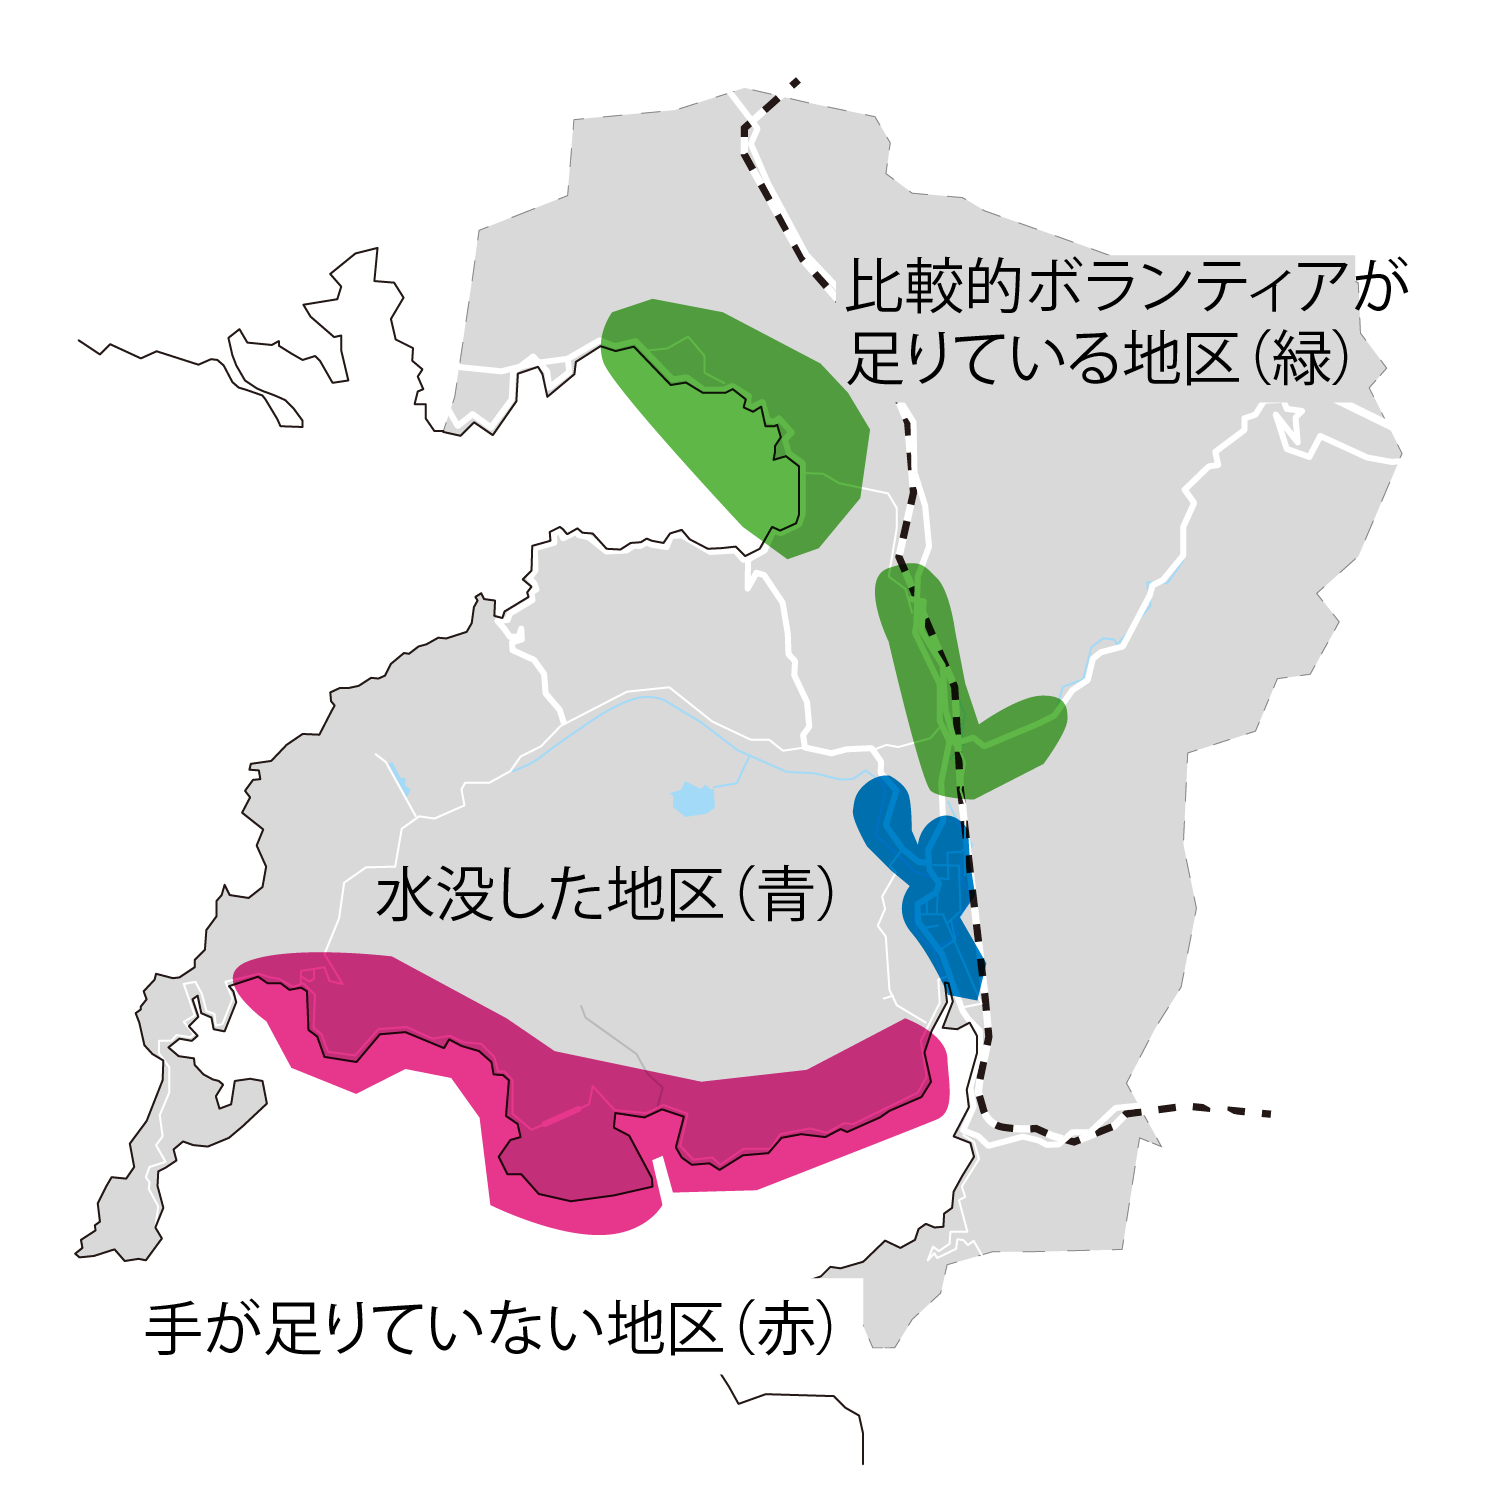
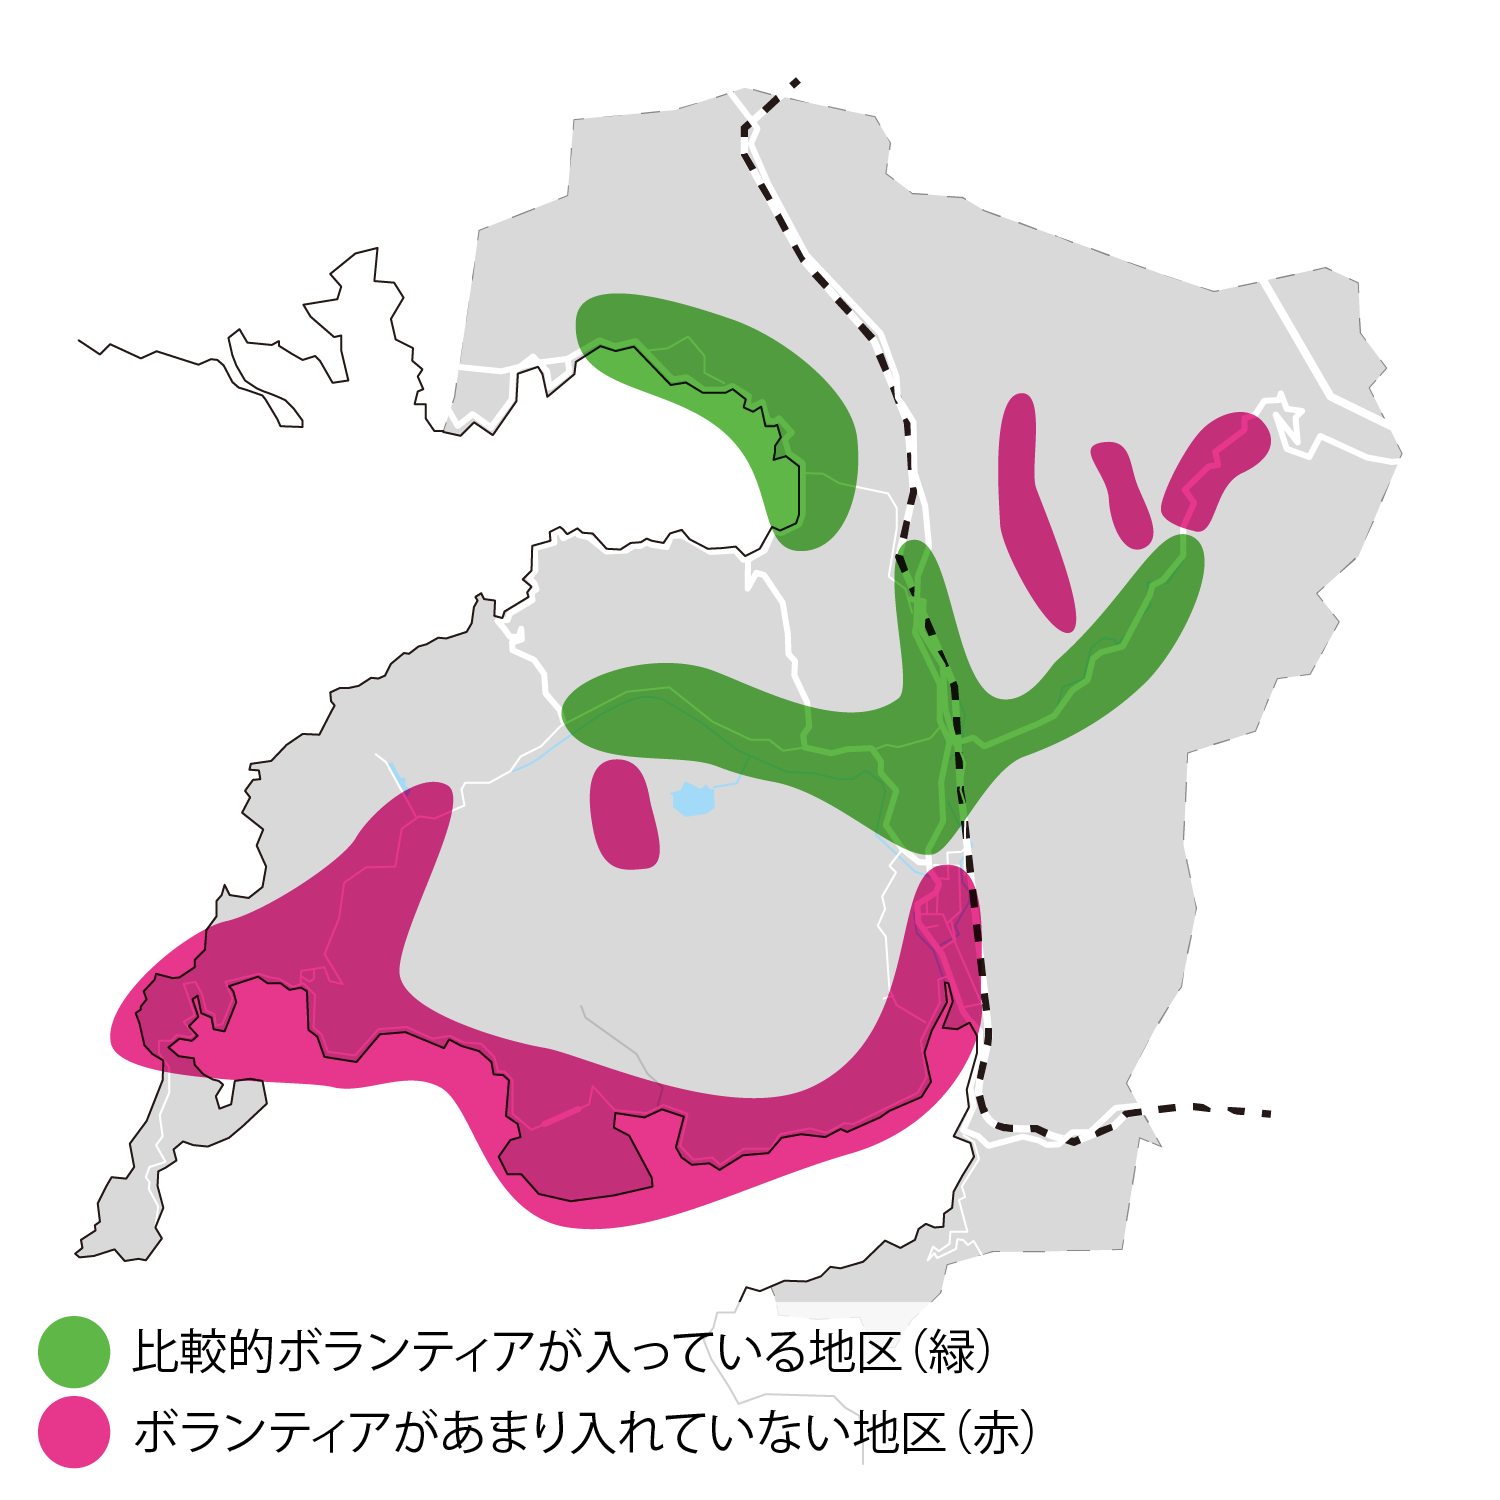
吉田町解説を追加、トップから新ボランティアページへのリンク追加

diff --git a/volunteer-new/yoshida.md b/volunteer-new/yoshida.md
@@ -1,0 +1,48 @@
+---
+title: 【8/6 吉田町の地域解説と現状】
+excerpt: 愛媛県でも最も復旧が遅れている吉田町について解説します。
+header:
+  overlay_image: /assets/images/map/yoshida-area.png
+  overlay_filter: 0.4
+category: 被災地情報
+tag:
+  - 吉田町
+  - 被害状況  
+date: 2018-08-06 10:32:18 +0900
+last_modified_at: 2018-08-06 10:32:28 +0900
+---
+
+# 宇和島市吉田町の解説と状況
+
+## 吉田町の場所
+
+宇和島市の北に位置します。
+
+![吉田町](/assets/images/maps/yoshida-map-only.png)
+
+## 吉田町の地区
+
+大きく５つの地区に分かれます。
+
+### 吉田町地区
+
+![吉田町](/assets/images/maps/yoshida-area.png)
+![吉田町小学校](/assets/images/maps/yoshida-elementary-school-white.png)
+
+### 吉田町立間地区詳細
+
+![吉田町立間](/assets/images/maps/yoshida-tachima.png)
+
+## 吉田町の現況概要(8/6現在)
+
+- 比較的ボランティアが入れているところと、そうでないところが二極化しています。
+- ボランティアが来ていないだけでなく、重機で道を切り開かないと入れないという現状があります。
+
+![吉田町現況](/assets/images/maps/yoshida-disaster-ratio.png)
+
+### 奥白井谷地区の例
+
+写真は立間の奥白井谷地区です。既に住民が避難しているため**援助要請がされないままになっています**。
+
+![吉田立間奥白井地区1](/assets/images/maps/yoshida-tachima-1.jpg)
+![吉田立間奥白井地区2](/assets/images/maps/yoshida-tachima-2.jpg)

diff --git a/volunteer-new/uwajima.md b/volunteer-new/uwajima.md
@@ -25,13 +25,11 @@ header:
 
 ## 吉田町の状況
 
-宇和島市吉田町に被害は集中しています。吉田町は主に５つのエリアに別れ、被害は**玉津**、**立間**、**吉田**、**奥南**に集中しています。
+宇和島市吉田町に被害は集中しています。被害は**広範囲**に渡り、**重機が入らないと手に負えない箇所**もあり、手付かずの場所も多く、まだまだ多くの人手を必要としています。
 
-![吉田町地区](/assets/images/maps/yoshida-area.png)
+![吉田町被害(8/6現在)](/assets/images/maps/yoshida-disaster-ratio.png)
 
-被害は広範囲に渡り、**重機が入らないと手に負えない箇所**もあります。特に吉田町南部の**奥南**エリアは未だ手付かずの場所が多く、まだまだ多くの人手を必要としています。
-
-![吉田町被害](/assets/images/maps/yoshida-disaster-ratio.png)
+[吉田町の現状（8/6時点）を解説するページ](/volunteer-new/yoshida/)を作成していますので、そちらをご覧ください。
 
 
 ## 場所・ルート
